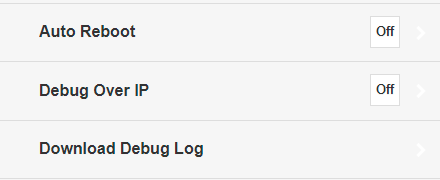
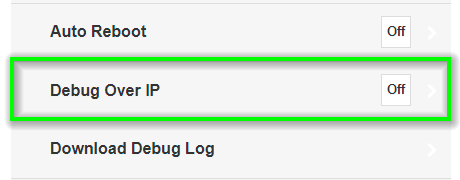
Debug Over IP, corrections

diff --git a/docs/pro-box-b10/logfile.md b/docs/pro-box-b10/logfile.md
@@ -28,7 +28,7 @@ Dabei müssen Sie den `Engineer Mode` aktivieren und die Funktion `Download Debu
 
 ![](/assets/img/Google_Chrome.png)
 
-* Klicken Sie mit der Maus in die Adressleiste des Browsers und geben Sie die IP-Adresse des QuattroPods ein.
+* Klicken Sie mit der Maus in die Adressleiste des Browsers und geben Sie die IP-Adresse des EZCast Pro Gerätes ein.
 
 ![](/assets/img/IP-Address.png)
 
@@ -77,7 +77,7 @@ Mit Hilfe der Funktion **Erweiterte Einstellungen** können Sie sich anmelden un
 
 ![](/assets/img/Google_Chrome.png)
 
-* Klicken Sie mit der Maus in die Adressleiste des Browsers und geben Sie die IP-Adresse des QuattroPods ein.
+* Klicken Sie mit der Maus in die Adressleiste des Browsers und geben Sie die IP-Adresse des EZCast Pro Gerätes ein.
 
 ![](/assets/img/IP-Address.png)
 
@@ -103,7 +103,7 @@ Mit Hilfe der Funktion **Erweiterte Einstellungen** können Sie sich anmelden un
 
 * Klicken Sie auf die Funktion `Debug Over IP`, um den Netzwerkdienst zu aktivieren. Eine Logdatei wird heruntergeladen:
 
-![](/assets/img/proII.select.debugviaip.png)
+![](/assets/img/proII.select.debugviaip.on.png)
 
 * Um die Einstellung freizuschalten, müssen Sie das EZCast Pro Gerät neustarten. Im Hauptmenü wählen Sie `Neustarten`.
 
@@ -149,9 +149,15 @@ Laden Sie die Terminal-Software [Tera Term](https://osdn.net/projects/ttssh2/rel
 
 !!! tip "Hinweis"
     
-	Zu diesem Zeitpunkt werden alle Aktivitäten des EZCast Pro-Geräts in die Protokolldatei eingelesen. An dieser Stelle müssen Sie die Ereignisse reproduzieren, die das Problem verursacht haben, das Sie uns bei der Diagnose helfen möchten. Wenn das Problem z. B. die Berührungsgesten auf dem Bildschirm betrifft, sollten Sie diese jetzt ausführen, bis das Problem wieder auftritt und in der Protokolldatei aufgezeichnet wird.
+	Zu diesem Zeitpunkt werden alle Aktivitäten des EZCast Pro-Geräts in die Protokolldatei eingelesen. An dieser Stelle müssen Sie die Ereignisse reproduzieren, die das Problem verursacht haben z.B. die Berührungsgesten auf dem Bildschirm, sollten Sie diese jetzt ausführen, bis das Problem wieder auftritt und in der Protokolldatei aufgezeichnet wird.
 
 
 * Lassen Sie uns bitte die Logdatei über unser [Ticketsystem](https://support.stueber.de) zukommen. 
 
 ![](/assets/img/logfile.ticket.png)
+
+### Debug Over IP deaktivieren
+
+* Schließlich am Ende des Verfahrens können Sie die Funktion **Debug Over IP** wieder deaktivieren:
+
+![](/assets/img/proII.select.debugviaip.off.png)

diff --git a/docs/pro-stick-d10/logfile.md b/docs/pro-stick-d10/logfile.md
@@ -28,7 +28,7 @@ Dabei müssen Sie den `Engineer Mode` aktivieren und die Funktion `Download Debu
 
 ![](/assets/img/Google_Chrome.png)
 
-* Klicken Sie mit der Maus in die Adressleiste des Browsers und geben Sie die IP-Adresse des QuattroPods ein.
+* Klicken Sie mit der Maus in die Adressleiste des Browsers und geben Sie die IP-Adresse des EZCast Pro Gerätes ein.
 
 ![](/assets/img/IP-Address.png)
 
@@ -77,7 +77,7 @@ Mit Hilfe der Funktion **Erweiterte Einstellungen** können Sie sich anmelden un
 
 ![](/assets/img/Google_Chrome.png)
 
-* Klicken Sie mit der Maus in die Adressleiste des Browsers und geben Sie die IP-Adresse des QuattroPods ein.
+* Klicken Sie mit der Maus in die Adressleiste des Browsers und geben Sie die IP-Adresse des EZCast Pro Gerätes ein.
 
 ![](/assets/img/IP-Address.png)
 
@@ -103,7 +103,7 @@ Mit Hilfe der Funktion **Erweiterte Einstellungen** können Sie sich anmelden un
 
 * Klicken Sie auf die Funktion `Debug Over IP`, um den Netzwerkdienst zu aktivieren. Eine Logdatei wird heruntergeladen:
 
-![](/assets/img/proII.select.debugviaip.png)
+![](/assets/img/proII.select.debugviaip.on.png)
 
 * Um die Einstellung freizuschalten, müssen Sie das EZCast Pro Gerät neustarten. Im Hauptmenü wählen Sie `Neustarten`.
 
@@ -149,9 +149,15 @@ Laden Sie die Terminal-Software [Tera Term](https://osdn.net/projects/ttssh2/rel
 
 !!! tip "Hinweis"
     
-	Zu diesem Zeitpunkt werden alle Aktivitäten des EZCast Pro-Geräts in die Protokolldatei eingelesen. An dieser Stelle müssen Sie die Ereignisse reproduzieren, die das Problem verursacht haben, das Sie uns bei der Diagnose helfen möchten. Wenn das Problem z. B. die Berührungsgesten auf dem Bildschirm betrifft, sollten Sie diese jetzt ausführen, bis das Problem wieder auftritt und in der Protokolldatei aufgezeichnet wird.
+	Zu diesem Zeitpunkt werden alle Aktivitäten des EZCast Pro-Geräts in die Protokolldatei eingelesen. An dieser Stelle müssen Sie die Ereignisse reproduzieren, die das Problem verursacht haben z.B. die Berührungsgesten auf dem Bildschirm, sollten Sie diese jetzt ausführen, bis das Problem wieder auftritt und in der Protokolldatei aufgezeichnet wird.
 
 
 * Lassen Sie uns bitte die Logdatei über unser [Ticketsystem](https://support.stueber.de) zukommen. 
 
 ![](/assets/img/logfile.ticket.png)
+
+### Debug Over IP deaktivieren
+
+* Schließlich am Ende des Verfahrens können Sie die Funktion **Debug Over IP** wieder deaktivieren:
+
+![](/assets/img/proII.select.debugviaip.off.png)
